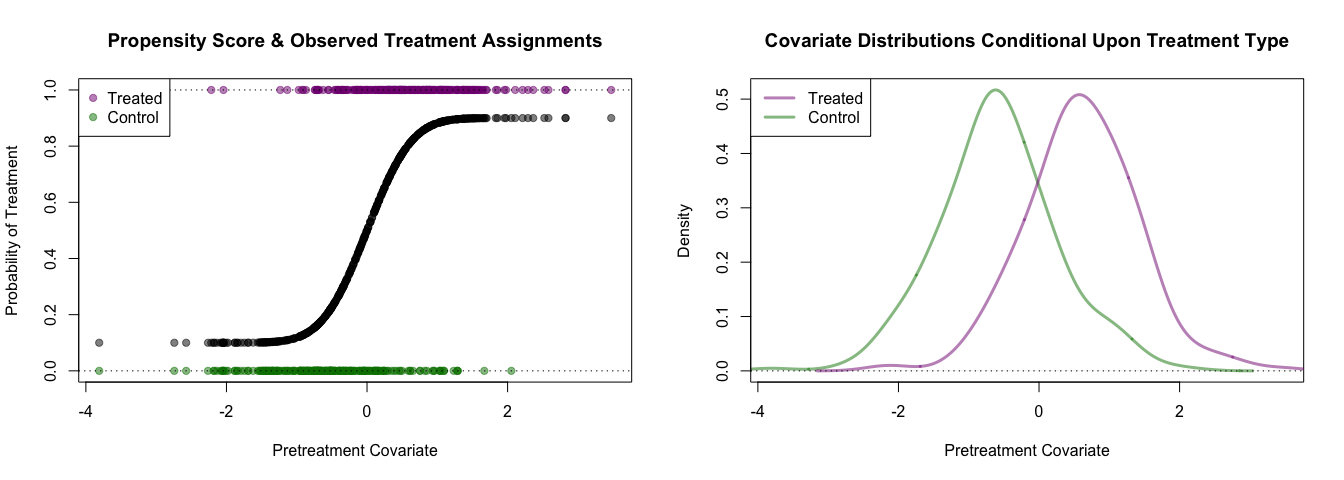
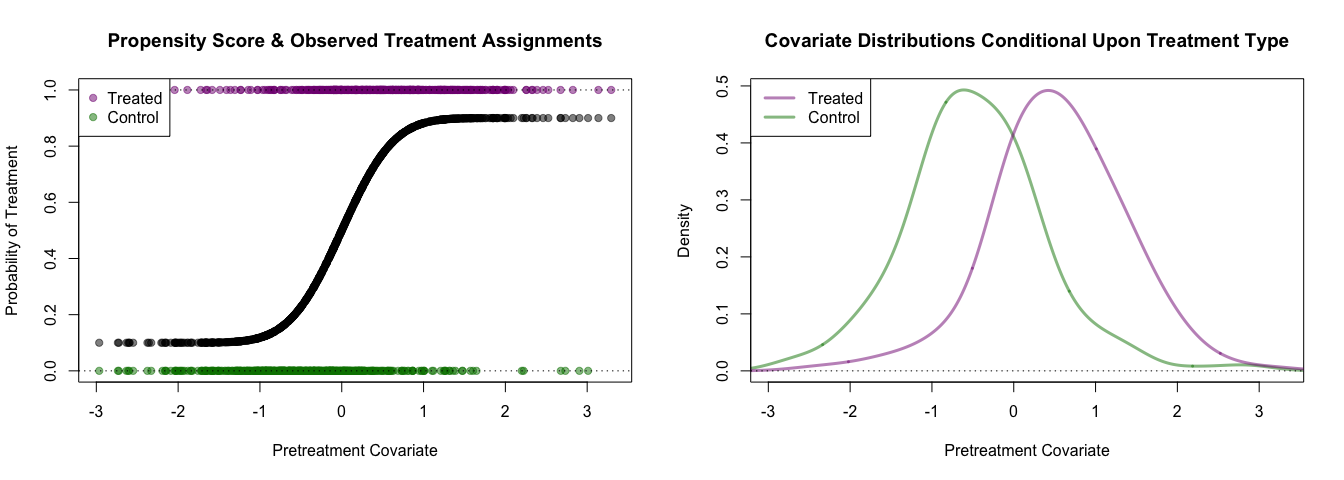
final results

diff --git a/README.md b/README.md
@@ -29,7 +29,7 @@ Example using `gpbalancer`
 
 ### Simulating data
 
-Provided below is a simple simulation to explore the effectiveness of the optimally balanced Gaussian process propensity score. Consider a continuous covariate *X* which is used to assign treatment, for *i* ∈ 1, …, 500 let,
+Provided below is a simple simulation to explore the effectiveness of the optimally balanced Gaussian process propensity score. Consider a continuous covariate *X* which is used to assign treatment, for *i* ∈ 1, …, 1000 let,
 
 *X*<sub>*i*</sub> ∼ *N*(0, 1)
 
@@ -52,8 +52,8 @@ where *ϵ*<sub>*i*, *G*</sub> ∼ *N*(0, 0.25<sup>2</sup>) for *G* ∈
 *Y*<sub>*i*</sub><sup>*o**b**s*</sup> = *I*(*T*<sub>*i*</sub> = 1)*Y*<sub>*i*</sub><sup>*T* = 1</sup> + *I*(*T* = 0)*Y*<sub>*i*</sub><sup>*T* = 0</sup>
 
 ``` r
-set.seed(201711)
-n_obs <- 500
+set.seed(2017)
+n_obs <- 1000
 pretreatment_cov <- rnorm(n_obs)
 prop_score <- 0.8 * pnorm(2*pretreatment_cov) + 0.1
 treatment_assignment <- rbinom(n_obs, size = 1, prob = prop_score)
@@ -108,7 +108,7 @@ knitr::kable(gpbalancer::bal_table(data.frame("Pretreatment Covariate" = pretrea
 
 |                        |   NT|   MeanT|    VarT|   NC|    MeanC|    VarC|  StdDiff|  LogRatio|
 |------------------------|----:|-------:|-------:|----:|--------:|-------:|--------:|---------:|
-| Pretreatment.Covariate |  246|  0.6051|  0.6356|  254|  -0.5894|  0.6911|   1.4667|   -0.0419|
+| Pretreatment.Covariate |  494|  0.5371|  0.6889|  506|  -0.4716|  0.7324|   1.1966|   -0.0306|
 
 ### Visualizing the Potential Outcomes & Observed Responses
 
@@ -149,7 +149,7 @@ original_bias <- (hat_tau-3)
 message('Orignal Bias: ', round(original_bias,3))
 ```
 
-    ## Orignal Bias: 0.56
+    ## Orignal Bias: 0.427
 
 ### Estimating the Propensity Score
 
@@ -163,13 +163,13 @@ est_propscore <- gpbalancer::gpbal(X = as.matrix(pretreatment_cov),
                                    verbose = T)
 ```
 
-    ## Starting Optimization  @   2017-11-21 11:52:45
+    ## Starting Optimization  @   2017-11-21 13:54:39
 
-    ## Finished Optimization  @   2017-11-21 11:52:47
+    ## Finished Optimization  @   2017-11-21 13:54:49
 
-    ## Time Difference          : 1.7494
+    ## Time Difference          : 10.0489
 
-    ## Optimal Covariate Balance: 0.00223105
+    ## Optimal Covariate Balance: 2.425e-05
 
 #### Visualizing the Estimated Propensity Score
 
@@ -197,9 +197,9 @@ true_wts <- ifelse(ta_logical, 1/prop_score, 1/(1-prop_score))
 knitr::kable(gpbalancer::bal_table(data.frame("Pretreatment Covariate" = pretreatment_cov), 1, ta_logical, true_wts))
 ```
 
-|                        |   NT|   MeanT|    VarT|   NC|  MeanC|    VarC|  StdDiff|  LogRatio|
-|------------------------|----:|-------:|-------:|----:|------:|-------:|--------:|---------:|
-| Pretreatment.Covariate |  246|  0.0932|  0.9112|  254|  0.022|  0.9779|   0.0733|   -0.0353|
+|                        |   NT|    MeanT|    VarT|   NC|   MeanC|    VarC|  StdDiff|  LogRatio|
+|------------------------|----:|--------:|-------:|----:|-------:|-------:|--------:|---------:|
+| Pretreatment.Covariate |  494|  -0.0569|  1.0578|  506|  0.1781|  1.1307|  -0.2247|   -0.0334|
 
 #### Balance Adjusting for the Estimated Optimally Balanced Gaussian Process Propensity Score
 
@@ -210,8 +210,14 @@ knitr::kable(gpbalancer::bal_table(data.frame("Pretreatment Covariate" = pretrea
 
 |                        |   NT|   MeanT|    VarT|   NC|   MeanC|    VarC|  StdDiff|  LogRatio|
 |------------------------|----:|-------:|-------:|----:|-------:|-------:|--------:|---------:|
-| Pretreatment.Covariate |  246|  0.0123|  1.0673|  254|  -0.011|  0.9828|   0.0231|    0.0412|
+| Pretreatment.Covariate |  494|  0.0276|  0.9718|  506|  0.0252|  0.9634|   0.0024|    0.0043|
 
 ### Evaluating the Performance of the Optimally Balanced Gaussian Process Propensity Score
 
 We now compare the method when there is no adjustment on the propensity score and when there is adjustment by the true propensity score. To compare these three scenarios the bias, the percent reduction in bias compared with no adjustment, and the mean squared error of the estimators are provided.
+
+|                       | Est. ATE |  S.E. | Lower95 | Upper95 |  Bias  | % Red. in Abs. Bias |  MSE  |
+|-----------------------|:--------:|:-----:|:-------:|:-------:|:------:|:-------------------:|:-----:|
+| No Adjustment         |   3.427  | 0.075 |  3.280  |  3.574  |  0.427 |          -          | 0.188 |
+| True Propensity Score |   2.877  | 0.111 |  2.660  |  3.095  | -0.123 |        71.242       | 0.027 |
+| Opt Bal GP Prop Score |   2.942  | 0.101 |  2.745  |  3.139  | -0.058 |        86.408       | 0.013 |
